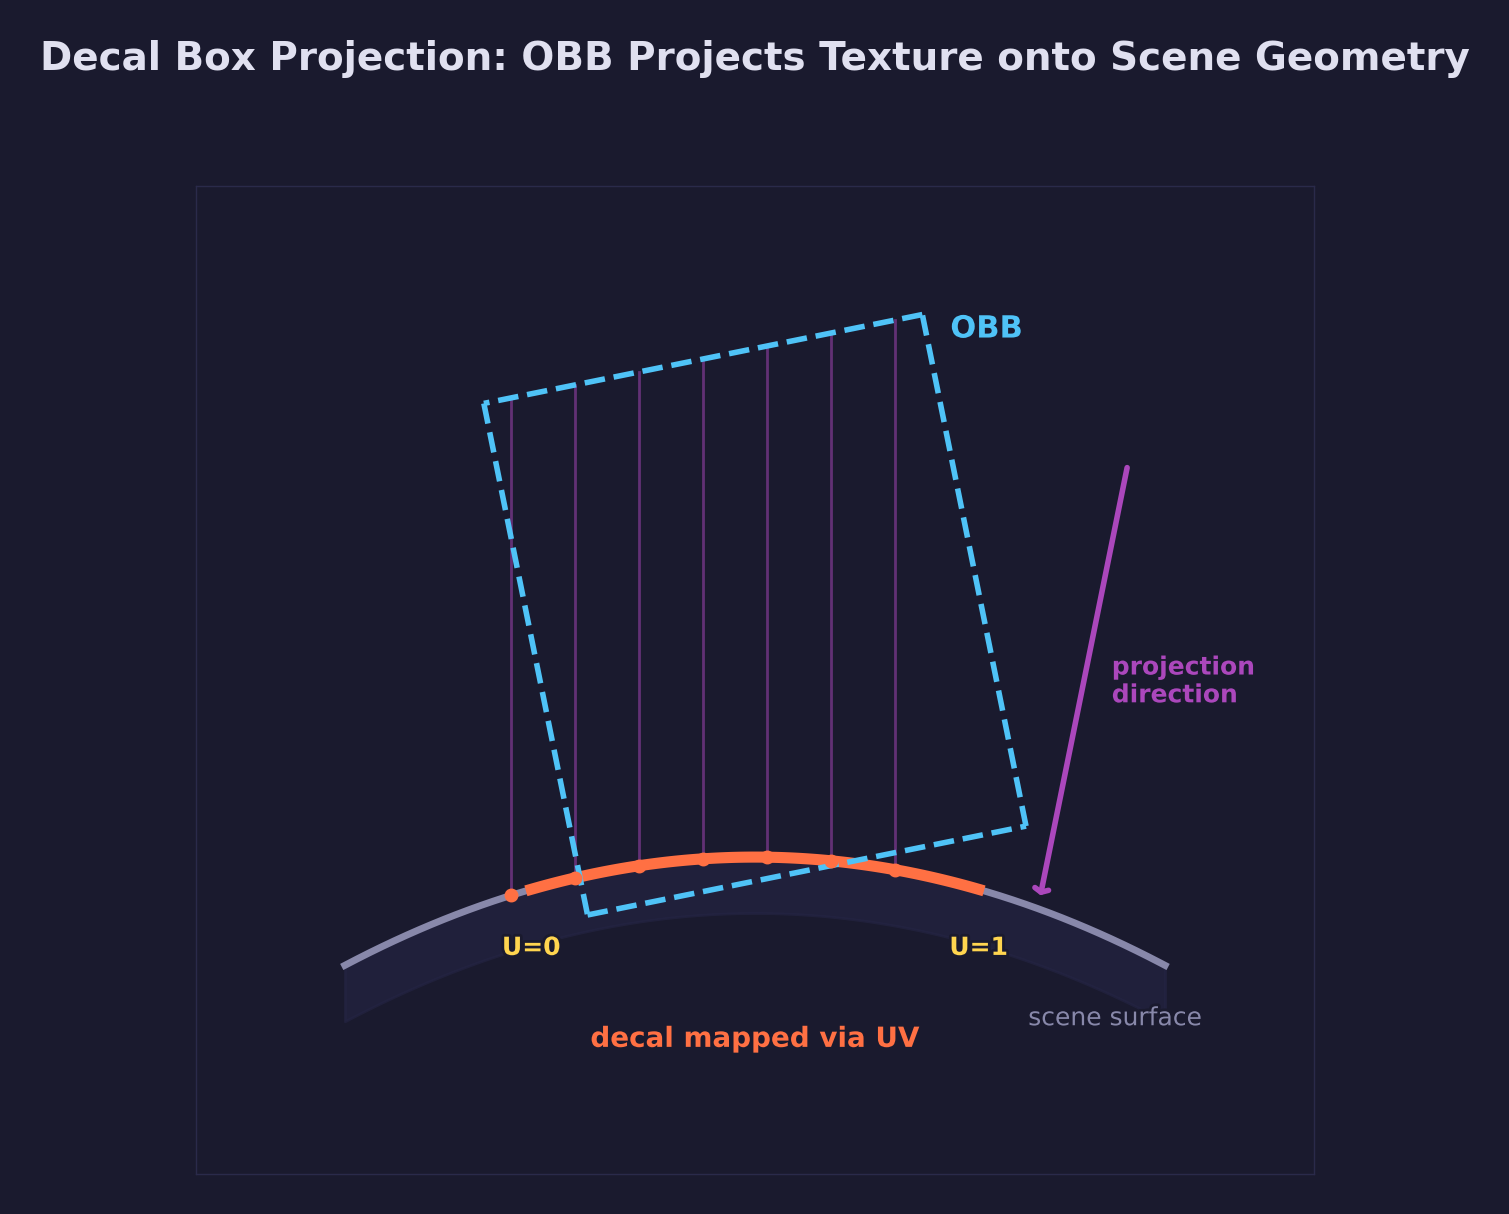
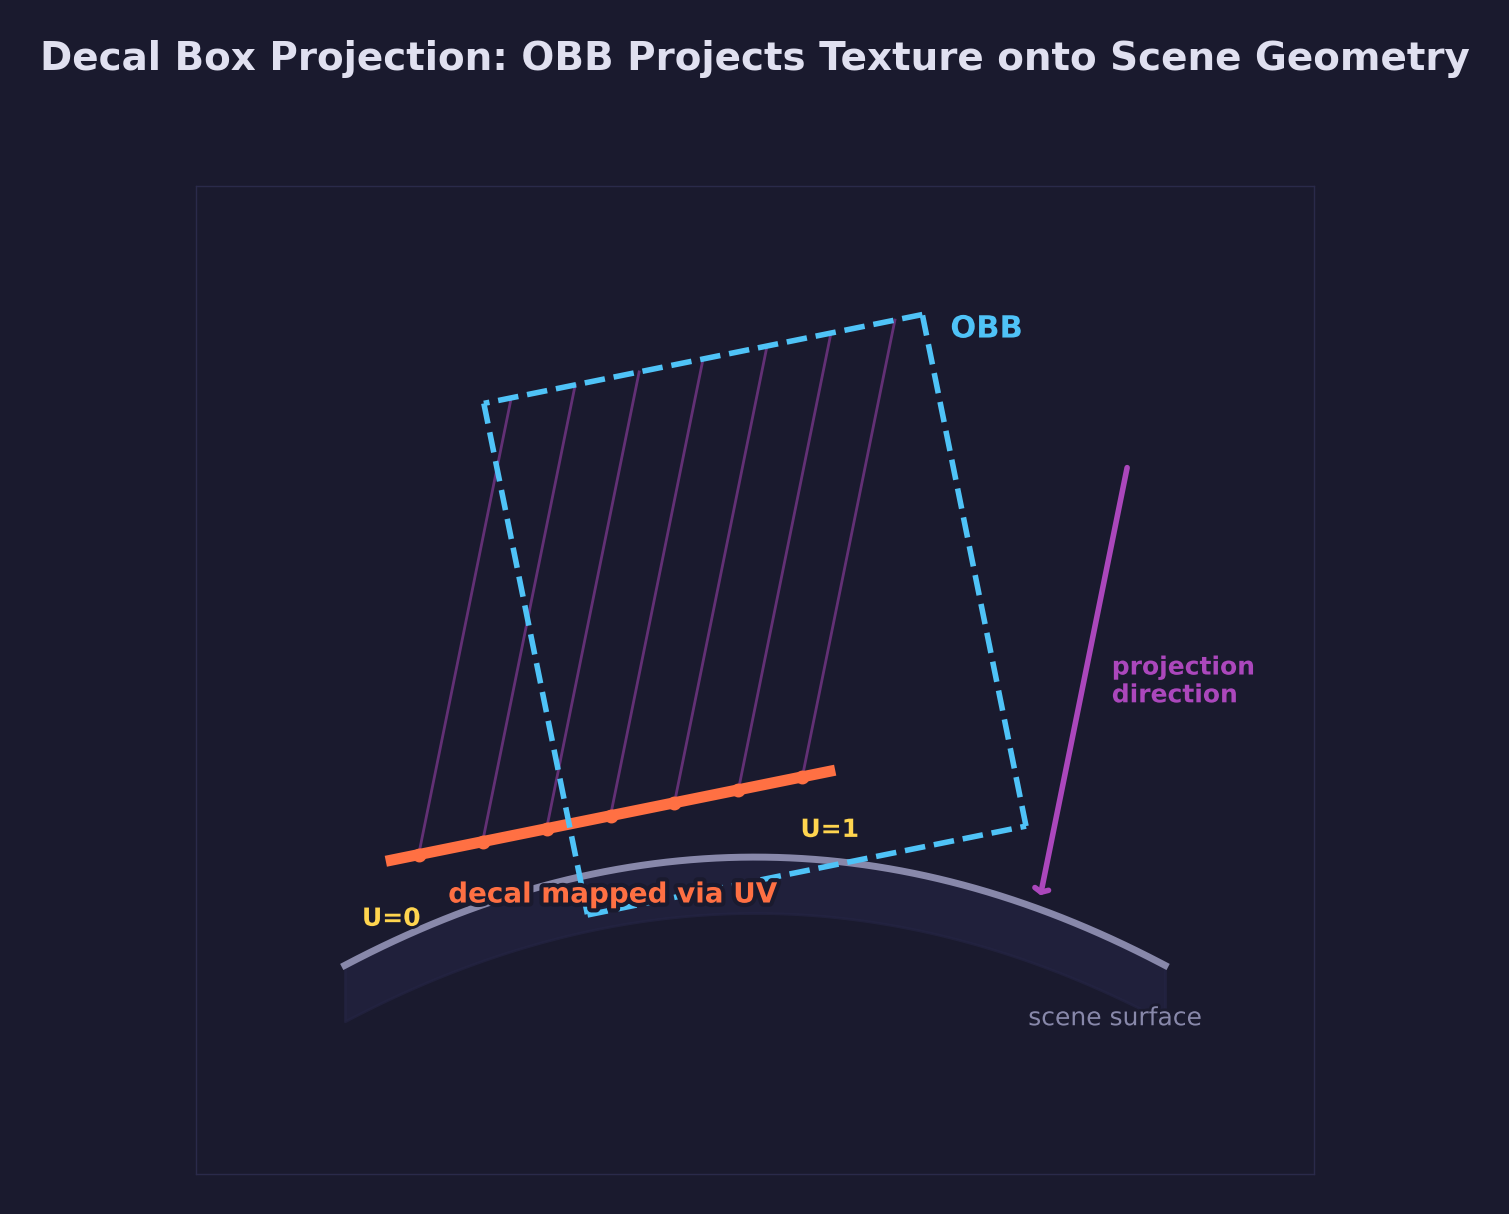
Address PR #185 round 3 feedback: fail-fast shadow probe, OBB diagram, constants
CodeRabbit round 3 fixes:
- Shadow depth format: fail fast if no format supports DEPTH_STENCIL_TARGET |
  SAMPLER instead of guessing D32_FLOAT
- OBB diagram: rotate projection rays and decal highlight along OBB local Y
  axis so the visual matches the oriented projection concept
- Check SDL_WaitForGPUIdle return value and log on failure
- Hoist scene layout magic numbers to #define constants (RING_RADIUS,
  FLOOR_DECAL_COUNT, FLOOR_DECAL_OFFSET, FLOOR_SIZE_BASE, FLOOR_SIZE_RANGE,
  FLOOR_SCATTER) and replace raw 3.14159265f with FORGE_PI

diff --git a/lessons/gpu/35-decals/main.c b/lessons/gpu/35-decals/main.c
@@ -122,6 +122,14 @@
 #define DECALS_PER_OBJECT  12
 #define CUBE_INDEX_COUNT   36
 
+/* Scene layout */
+#define RING_RADIUS        5.0f     /* radius of Suzanne ring around origin */
+#define FLOOR_DECAL_COUNT  15       /* number of decals scattered on the grid */
+#define FLOOR_DECAL_OFFSET 0.05f    /* Y offset above floor to prevent z-fight */
+#define FLOOR_SIZE_BASE    0.4f     /* minimum floor decal half-extent */
+#define FLOOR_SIZE_RANGE   0.8f     /* random range added to FLOOR_SIZE_BASE */
+#define FLOOR_SCATTER      7.0f     /* half-extent of floor decal scatter area */
+
 /* ── Vertex layout ────────────────────────────────────────────────────── */
 
 /* Position + normal — used for decal box geometry. */
@@ -734,17 +742,17 @@ static void generate_decals(app_state *state)
     }
 
     /* Floor decals — scattered on the grid around and between the Suzannes */
-    const int floor_count = 15;
+    const int floor_count = FLOOR_DECAL_COUNT;
     for (int f = 0; f < floor_count && state->decal_count < MAX_DECALS; f++) {
         Decal *decal = &state->decals[state->decal_count];
 
         /* Random position on the floor within the scene area */
         hash = forge_hash_wang(hash);
-        float fx = forge_hash_to_sfloat(hash) * 7.0f;
+        float fx = forge_hash_to_sfloat(hash) * FLOOR_SCATTER;
         hash = forge_hash_wang(hash);
-        float fz = forge_hash_to_sfloat(hash) * 7.0f;
+        float fz = forge_hash_to_sfloat(hash) * FLOOR_SCATTER;
 
-        decal->position = vec3_create(fx, 0.05f, fz);
+        decal->position = vec3_create(fx, FLOOR_DECAL_OFFSET, fz);
 
         /* Project straight down onto the floor */
         vec3 forward = vec3_create(0.0f, -1.0f, 0.0f);
@@ -767,7 +775,7 @@ static void generate_decals(app_state *state)
 
         /* Larger sizes for floor decals */
         hash = forge_hash_wang(hash);
-        float sz = 0.4f + forge_hash_to_float(hash) * 0.8f;
+        float sz = FLOOR_SIZE_BASE + forge_hash_to_float(hash) * FLOOR_SIZE_RANGE;
         decal->size[0] = sz;
         decal->size[1] = sz * DECAL_DEPTH_RATIO;
         decal->size[2] = sz;
@@ -886,9 +894,8 @@ SDL_AppResult SDL_AppInit(void **appstate, int argc, char *argv[])
         state->shadow_depth_fmt = SDL_GPU_TEXTUREFORMAT_D16_UNORM;
         SDL_Log("Shadow depth format: D16_UNORM (fallback)");
     } else {
-        /* Use whatever the scene depth format is */
-        state->shadow_depth_fmt = SDL_GPU_TEXTUREFORMAT_D32_FLOAT;
-        SDL_Log("Shadow depth format: D32_FLOAT (unprobed, may fail)");
+        SDL_Log("ERROR: No shadow depth format supports DEPTH_STENCIL_TARGET | SAMPLER");
+        return SDL_APP_FAILURE;
     }
 
     /* Scene depth: needs stencil for exercises, plus SAMPLER for decal pass */
@@ -1337,14 +1344,13 @@ SDL_AppResult SDL_AppInit(void **appstate, int argc, char *argv[])
 
     /* Arrange Suzannes in a ring around the origin so the camera can see all */
     {
-        const float ring_radius = 5.0f;
         const float base_scales[SUZANNE_COUNT] = { 1.0f, 0.8f, 1.2f, 0.9f, 1.1f, 0.7f };
         for (int i = 0; i < SUZANNE_COUNT; i++) {
-            float angle = (float)i / (float)SUZANNE_COUNT * 2.0f * 3.14159265f;
-            float x = ring_radius * sinf(angle);
-            float z = ring_radius * cosf(angle);
+            float angle = (float)i / (float)SUZANNE_COUNT * 2.0f * FORGE_PI;
+            float x = RING_RADIUS * sinf(angle);
+            float z = RING_RADIUS * cosf(angle);
             /* Face each Suzanne toward the center */
-            float face_angle = angle + 3.14159265f;
+            float face_angle = angle + FORGE_PI;
             state->suzannes[i] = (SceneObject){
                 vec3_create(x, 1.0f, z), base_scales[i], face_angle
             };
@@ -1807,7 +1813,9 @@ void SDL_AppQuit(void *appstate, SDL_AppResult result)
     forge_capture_destroy(&state->capture, state->device);
 #endif
 
-    SDL_WaitForGPUIdle(state->device);
+    if (!SDL_WaitForGPUIdle(state->device)) {
+        SDL_Log("ERROR: SDL_WaitForGPUIdle failed: %s", SDL_GetError());
+    }
 
     /* Release pipelines */
     if (state->shadow_pipeline) SDL_ReleaseGPUGraphicsPipeline(state->device, state->shadow_pipeline);

diff --git a/scripts/forge_diagrams/gpu_diagrams.py b/scripts/forge_diagrams/gpu_diagrams.py
@@ -17733,23 +17733,36 @@ def diagram_decal_box_projection():
         zorder=5,
     )
 
-    # --- Projection rays from top of box down to surface ---
+    # --- Projection rays along OBB local Y axis down to surface ---
     n_rays = 7
     ray_xs = np.linspace(-box_hw + 0.15, box_hw - 0.15, n_rays)
+    # OBB local Y direction (projection axis) rotated into world space
+    proj_dx = -sin_t  # world X component of local -Y direction
+    proj_dy = -cos_t  # world Y component of local -Y direction
     for rx in ray_xs:
-        # Rotate ray origin through OBB orientation
-        rx_rot = cos_t * rx - sin_t * box_hh
+        # Ray origin at top of box in OBB local coords, rotated to world
+        rx_top = cos_t * rx - sin_t * box_hh
         ry_top = sin_t * rx + cos_t * box_hh + box_cy
-        ry_hit = -0.12 * rx_rot**2 - 0.8
+        # March along projection direction until hitting the surface
+        # Surface: y = -0.12 * x^2 - 0.8
+        # Solve: ry_top + t * proj_dy = -0.12 * (rx_top + t * proj_dx)^2 - 0.8
+        # Use iterative approach for robustness
+        hit_x, hit_y = rx_top, ry_top
+        for _ in range(50):
+            surface_y = -0.12 * hit_x**2 - 0.8
+            if hit_y <= surface_y:
+                break
+            hit_x += proj_dx * 0.05
+            hit_y += proj_dy * 0.05
         ax.plot(
-            [rx_rot, rx_rot],
-            [ry_top, ry_hit],
+            [rx_top, hit_x],
+            [ry_top, hit_y],
             color=STYLE["accent4"],
             linewidth=1,
             alpha=0.5,
             zorder=3,
         )
-        ax.plot(rx_rot, ry_hit, "o", color=STYLE["accent2"], markersize=4, zorder=5)
+        ax.plot(hit_x, hit_y, "o", color=STYLE["accent2"], markersize=4, zorder=5)
 
     # Arrow label for projection direction (rotated with OBB)
     arrow_offset = box_hw + 0.6
@@ -17783,13 +17796,28 @@ def diagram_decal_box_projection():
         zorder=5,
     )
 
-    # --- Decal region on the surface (highlighted) ---
-    t_decal = np.linspace(-box_hw, box_hw, 100)
-    y_decal = -0.12 * t_decal**2 - 0.8
-    ax.plot(t_decal, y_decal, color=STYLE["accent2"], linewidth=4, zorder=3)
+    # --- Decal region on the surface (highlighted, follows OBB projection) ---
+    # Sample local X positions across the OBB width, project along OBB Y to surface
+    t_local = np.linspace(-box_hw, box_hw, 100)
+    decal_xs = []
+    decal_ys = []
+    for lx in t_local:
+        wx = cos_t * lx - sin_t * box_hh
+        wy = sin_t * lx + cos_t * box_hh + box_cy
+        hx, hy = wx, wy
+        for _ in range(50):
+            sy = -0.12 * hx**2 - 0.8
+            if hy <= sy:
+                break
+            hx += proj_dx * 0.05
+            hy += proj_dy * 0.05
+        decal_xs.append(hx)
+        decal_ys.append(hy)
+    ax.plot(decal_xs, decal_ys, color=STYLE["accent2"], linewidth=4, zorder=3)
+    mid_idx = len(decal_xs) // 2
     ax.text(
-        0.0,
-        -1.7,
+        decal_xs[mid_idx],
+        decal_ys[mid_idx] - 0.35,
         "decal mapped via UV",
         color=STYLE["accent2"],
         fontsize=10,
@@ -17802,8 +17830,8 @@ def diagram_decal_box_projection():
 
     # --- UV coordinate labels at box edges ---
     ax.text(
-        -box_hw,
-        -0.12 * box_hw**2 - 0.8 - 0.25,
+        decal_xs[0],
+        decal_ys[0] - 0.25,
         "U=0",
         color=STYLE["warn"],
         fontsize=9,
@@ -17814,8 +17842,8 @@ def diagram_decal_box_projection():
         zorder=5,
     )
     ax.text(
-        box_hw,
-        -0.12 * box_hw**2 - 0.8 - 0.25,
+        decal_xs[-1],
+        decal_ys[-1] - 0.25,
         "U=1",
         color=STYLE["warn"],
         fontsize=9,
